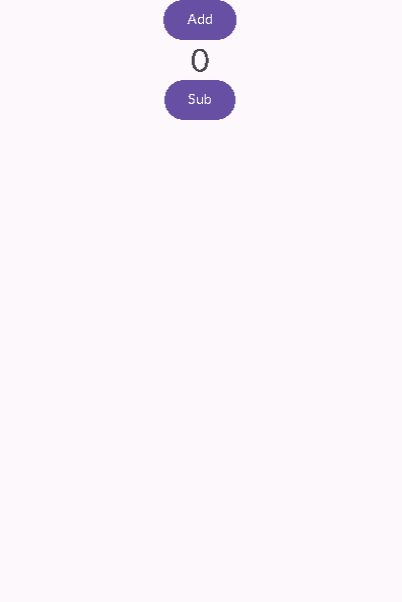
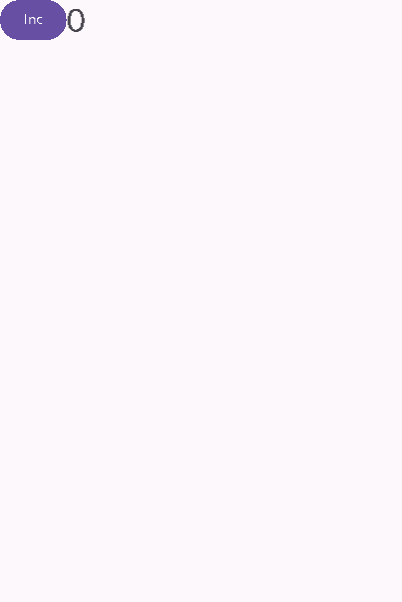
docs(ribir): ✏ update readme

Changed region(s): [[0.3881, 0.0, 0.597, 0.2093], [0.0, 0.0, 0.209, 0.0897]]

diff --git a/examples/counter/src/counter.rs b/examples/counter/src/counter.rs
@@ -3,19 +3,12 @@ use ribir::prelude::*;
 pub fn counter() -> impl WidgetBuilder {
   fn_widget! {
     let cnt = Stateful::new(0);
-
-    @Column {
-      h_align: HAlign::Center,
-      align_items: Align::Center,
+    @Row {
       @FilledButton {
-        on_tap: move |_: &mut _| *$cnt.write() += 1,
-        @{ Label::new("Add") }
+        on_tap: move |_| *$cnt.write() += 1,
+        @{ Label::new("Inc") }
       }
-      @H1 { text: pipe!($cnt.to_string())  }
-      @FilledButton {
-        on_tap: move |_: &mut _| *$cnt.write() += -1,
-        @{ Label::new("Sub") }
-      }
+      @H1 { text: pipe!($cnt.to_string()) }
     }
   }
 }

diff --git a/README.md b/README.md
@@ -1,65 +1,86 @@
+<h1 align="center">
+Ribir - Non-intrusive Declarative GUI Framework
+</h1>
+<p align="center"><a href="https://ribir.org" target="_blank" rel="noopener noreferrer">
+<img src="website/static/img/logo.svg" alt="Ribir-logo"  width = "128px">
+</a></p>
+
+<p align="center">
+Use Rust to build multi-platform applications from a single codebase.
+</p>
 <div align="center">
-<img src="website/static/img/logo-animation.gif" width="480px" />
-
-<!-- # Ribir -->
-
-Ribir is a framework for building modern native/wasm cross-platform user interface applications.
 
 [![CI](https://github.com/RibirX/Ribir/actions/workflows/ci.yml/badge.svg?branch=master)](https://github.com/RibirX/Ribir/actions/workflows/ci.yml)
 [![codecov](https://codecov.io/gh/RibirX/Ribir/branch/master/graph/badge.svg)](https://codecov.io/gh/RibirX/ribir)
-[![License](https://img.shields.io/badge/license-MIT-informational)](https://github.com/RibirX/ribir/blob/master/LICENSE)
+[![Crates.io](https://img.shields.io/crates/v/ribir)](https://crates.io/crates/ribir)
+[![Crates.io](https://img.shields.io/crates/d/ribir)](https://crates.io/crates/ribir)
 
-[Documents] | [Examples]
+[Website] | [Documents] | [Examples] | [Changelog]
 
+<!--todo: a demos picture here-->
 </div>
 
+## What's Ribir?
 
-## Principles
+Ribir is a Rust GUI framework that helps you build beautiful and native multi-platform applications from a single codebase.
 
-- **Non-injection and Non-invasive**: Ribir interacts with the APIs of your data structure, and does not require you to do any pre-design for the user interface. Developers can focus on designing the data struct, logic and APIs. Ribir will neither break your existing logic nor require injecting any of its own objects.
-
-- **Declarative**: The user interface is the description of data, the description will automatically react to the data modification. Once you describe your data, the description will keep describing your data.
-
-- **Purely composed**: Ribir creates UI via widgets. There is not a base-object, even if the built-in fields are provided in a composed way. For example,  only if you use `margin` field, the `Margin` widget will be composed, if you do not use it, you don't pay any overhead for `Margin`. "Only pay for what you need" is an important guideline for Ribir.
-
+Experience a novel approach to UI development that's directly based on your data structure APIs. Any data mutation will trigger a precise UI update. Your focus should be on designing your data structure and its APIs. Then, you can describe your data's UI without intruding on its logic.
 
 ## At First Glance
 
+A simple example of a counter:
 
-<div style="display:inline-block;">
-<div style="float:left;height:400px;overflow:scroll; ">
+
+<table>
+  <tr>
+    <td style="padding:10px">
+      <div>
 
 ``` rust
 use ribir::prelude::*;
 fn main() {
-  app::run(widget! {
-    states { cnt: Stateful::new(0) }
-    Column {
-      h_align: HAlign::Center,
-      align_items: Align::Center,
-      FilledButton { on_tap: move |_| *cnt += 1, Label::new("Add") }
-      H1 { text: cnt.to_string() }
-      FilledButton { on_tap: move |_| *cnt += -1, Label::new("Sub") }
+  let counter = fn_widget! {
+    let cnt = Stateful::new(0);
+    @Row {
+      @FilledButton {
+        on_tap: move |_| *$cnt.write() += 1,
+        @{ Label::new("Inc") }
+      }
+      @H1 { text: pipe!($cnt.to_string()) }
     }
-  });
+  };
+  App::run(counter);
 }
 ```
 </div>
-<img src="website/static/img/counter_demo.gif" width="300" style="float:right;"/>
-</div>
+    </td>
+      <td style="padding:10px">
+        <img src="website/static/img/counter_demo.gif" width="430"/>
+      </td>
+    </tr>
+</table>
+
+
 
 More [Examples]
 
 
-## Key Features
+## Features
 
-- **Write once run anywhere**: Compile native code for desktop and mobile(not yet), and WASM for Web(not yet). Since Ribir has rather few platform dependencies, it's not hard to support more platforms by yourself.
-- **Declarative language expanded from Rust syntax**: The declarative language is based on Rust, so interaction with Rust becomes natural and easy.
-- **Easy custom widget**: Ribir supports the implementation of custom `Compose`, `Render` and `ComposeChild` widgets, you only need to implement the corresponding traits. Evenmore, you are able to specify the template of the children of `ComposeChild`, just by deriving the `Template` traits.
-- **Powerful custom theme**: Specify the theme for the whole application or partial subtree. In the theme, you can configure the palette, icons, animate transitions, widget custom themes, the interactive behavior of widget and even compose more decoration widgets on it.
-- **Rich available official widgets**: A `ribir_widgets` library exists，containing common desktop and mobile widgets.
-- **No side effect animations**: Animation in Ribir is only a visual effect, that won't affect data. Animate support for any render widgets.
-- **Alternative rendering backends**: The rendering backend is replaceable, you can implement your own rendering to output image, html, svg or any other stuff. Ribir provides developers with a gpu backend basing on [wgpu] and perhaps a soft(cpu) render in the future.
+- **Declarative language** does not introduce a fully new language but rather provides a set of Rust macros for easy interaction.
+- **Widgets compose system** has four kinds of widgets to support you can implement your widget in different ways:
+  - function widget and `Compose`, from other widgets composition.
+  - `Render`, implement your layout and paint anything you want.
+  - `ComposeChild`, control the compose logic between parent and child widgets and specify the template of child widgets.  
+- **Non-intrusive state** converts your data to a listenable state and updates the view according to the change of the state.
+- **Layout system** learning and inspired by [Flutter] Sublinear layout, but not the same.
+- **Event system** is a composition event system, that supports event bubbling and capture. Allow to compose with any widget, and exists only if you use it.
+- **Theme system** supports full and inherit/partial themes, so you can use it to override or dynamically switch the theme of the subtree. Include palette, icons, animate transitions, the decoration widget of the widget, etc. In a very rough state and the API will be redesigned soon.
+- **Animations** based on the state but no side effect, it's almost stable in concept, but not many predefined animations yet.
+- **Painter** converts the view to 2D paths.
+- **GPU render** is a backend of the **Painter**, do path tessellation so that you can easily render the triangles in any GPU render engine. A [wgpu] implementation is provided as the default GPU render engine. Tessellation base on [lyon].
+- **Text** support basic text typography and IME input, in a usable but rough stage.
+- **Widgets** library provides 20+ basic widgets, but all are in a rough stage, and the API is not stable yet.
 
 ## Support Platform 
 
@@ -71,6 +92,23 @@ More [Examples]
 |iOS|🚧 Not yet|
 |Android|🚧 Not yet|
 |Web|🚧 Not yet|
+
+## Love Ribir?
+
+If you like Ribir, give our repo a [⭐ STAR ⬆](https://github.com/RibirX/Ribir) and [WATCH 👀](https://github.com/RibirX/Ribir/subscription) our repository to stay updated with the latest developments!
+
+Every encouragement and feedback can support us to go further.
+
+## Known Issues
+
+
+The pipe/watch may easily introduce a cycle reference, which will cause a memory leak. We'll resolve this issue in v0.2.0.
+
+In most cases, the framework will be able to avoid cycle reference automatically. Documentation will be updated to explain how to avoid cycle reference in the rest cases, and we will provide an API to help developers resolve it.
+
+
+For a complete list of known issues, please see [Issues](https://github.com/RibirX/Ribir/issues).
+
 
 ## Contributing
 
@@ -99,13 +137,12 @@ Please [report all bugs](https://github.com/RibirX/Ribir/issues/new/choose)! We 
 
 ## Thanks
 
-This project exists thanks to all the people who contribute:
+This project exists thanks to all the people who contributed:
 
 <a href="https://github.com/RibirX/Ribir/graphs/contributors">
   <img src="https://contrib.rocks/image?repo=RibirX/Ribir" height="50px">
 </a>
 
-<br/>
 <br/>
 
 We also found inspiration from the following frameworks:
@@ -114,12 +151,12 @@ We also found inspiration from the following frameworks:
 * [QML]
 
 ## License
+Ribir is [MIT-licensed](./LICENSE)
 
-Ribir is [MIT licensed](./LICENSE)
-
+[Website]: https://ribir.org
+[Changelog]: ./CHANGELOG.md
 [Flutter]: https://flutter.dev/
 [QML]: https://doc.qt.io/qt-6/qtqml-index.html
 [Examples]: ./examples/
 [Documents]: https://ribir.org/docs/introduction
-[Wgpu]: https://github.com/gfx-rs/wgpu
-
+[wgpu]: https://github.com/gfx-rs/wgpu

diff --git a/docs/en/introduction.md b/docs/en/introduction.md
@@ -4,7 +4,7 @@
 
 ## What is Ribir?
 
-Ribir is an open source Rust framework for building beautiful UI, natively compiled, multi-platform applications from a single codebase.
+Ribir is an open-source Rust framework for building beautiful, native, multi-platform applications from a single codebase.
 
 Ribir uses a non-intrusive declarative programming model that allows you to develop and design user interfaces as an independent module.
 
@@ -23,7 +23,7 @@ Ribir only interacts with the API of your data and does not require any pre-desi
 - No additional states
 - No additional notification mechanisms 
 - No inheritance of any base classes
-- No any other pre-constraints. 
+- No other pre-constraints. 
 
 It doesn't break the logic and structure of your existing data or inject any additional objects. When developing the core part of an application, you can focus on designing the data, logic, and API of the application without thinking about the UI at all.
 
@@ -33,7 +33,7 @@ The UI directly operates data, and data modifications directly drive UI updates,
 
 Ribir can be used to develop desktop, mobile, web and server-side rendering applications. It generates efficient binary code or WASM programs without relying on any runtime environment. It outputs a very simple, platform-independent drawing result, allowing you to choose to be rendered entirely by the GPU or CPU. You can even easily implement your own rendering backend to expand to uncovered platforms.
 
-### Declarative syntax that is easy to interact with Rust
+### The Declarative syntax that is easy to interact with Rust
 
 Ribir provides a declarative syntax that is easy to interact with Rust. It is not a new language, but a set of Rust macros. Therefore, it can interact well with Rust, making your code both a clear view description and a powerful logical expression, without any environment and tool dependencies.
 
@@ -64,9 +64,9 @@ fn_widget!{
 };
 ```
 
-The above example shows the way of combining built-in widgets. Even if `Text` does not have a `margin` field, you can still use the `Margin::margin` and compose it with `Text` to form a new widget. `Margin` will only be created when a widget uses the `margin` field, otherwise there will be no overhead.
+The above example shows the way of combining built-in widgets. Even if `Text` does not have a `margin` field, you can still use the `Margin::margin` and compose it with `Text` to form a new widget. `Margin` will only be created when a widget uses the `margin` field, otherwise, there will be no overhead.
 
-**Digestion of composite widget**: When describing the view of the data, in addition to some basic widgets, most widgets are composed of other widgets. For example, a `Button`, it is composed of `Text`, `Icon` or `BoxDecoration`, etc. widgets, `Button` itself is not a view element, we call this type of widget a composite widget. Composite widgets will be digested during view construction. They are like a function and are called once during view construction to build the final view and create the corresponding update logic, and do not exist in the final view.
+**Digestion of composite widgets**: When describing the view of the data, in addition to some basic widgets, most widgets are composed of other widgets. For example, a `Button` is composed of `Text`, `Icon` or `BoxDecoration`, etc. The `Button` itself is not a view element, we call this type of widget a composite widget. Composite widgets will be digested during view construction. They are like a function and are called once during view construction to build the final view and create the corresponding update logic, and do not exist in the final view.
 
 **Only state with write sources are real state**: Unlike other declarative frameworks that add fields to widgets to control widget updates. Ribir is non-intrusive. Ribir treats the entire widget as a state to control updates. 
 At the same time, it provides the ability to split the state, so that the local view can directly depend on the modification of part of the data to update (introduced in detail in the subsequent tutorial). Another big difference is that stateful and stateless can be converted to each other. If a state has no write source, it will degenerate into stateless， because no one will update it. For example:
@@ -83,18 +83,18 @@ fn_widget!{
 };
 ```
 
-In the above example, we declared a `Text` and used the `pipe!` macro to directly associate the visibility of `Text` with `show_hi`. But this association will be eliminated when the view is constructed, because `show_hi` always remains unchanged - it has no write source. Therefore, Ribir constructs a simple static view.
+In the above example, we declared a `Text` and used the `pipe!` macro to directly associate the visibility of `Text` with `show_hi`. But this association will be removed when the view is constructed because `show_hi` has no written source. Therefore, Ribir constructs a simple static view.
 
 ### Reliability
 
-Unlike general GUI frameworks that use inheritance and do not have any type constraints except base class inheritance, Ribir builds views based on widget composition and relies on the types between parent and child widgets to constrain whether and how to compose them. You can standardize your own child types, so many errors can be reported at compile time instead of being checked at runtime.
+Unlike general GUI frameworks that use inheritance and do not have any type constraints except base class inheritance, Ribir builds views based on widget composition and relies on the types between parent and child widgets to constrain whether and how to compose them. You can standardize your child types, so many errors can be reported at compile time instead of being checked at runtime.
 
 
 ## What is the current status of Ribir?
 
 ### Stability
 
-The core framework of Ribir is in a basically stable state, and the API and syntax will be iterated with a cautious attitude. Although the widget library already has many available widgets, it is still in a very rough state, and each version will have major changes.
+The core framework of Ribir is in a stable state, and the API and syntax will be iterated with a cautious attitude. Although the widget library already has many available widgets, it is still in a very rough state, and each version will have major changes.
 
 ### Platform coverage
 
@@ -108,4 +108,4 @@ In all important designs of the entire framework, performance is an important fa
 
 **Polestar Chat**: 
 
-**Sisyphus**: An editor for editing interactive documents, this is a long-term project, which is still in the early design and development stage, and it is the idea of this project that led to the birth of Ribir.
+**Sisyphus**: An editor for editing interactive documents, this is a long-term project, that is still in the early design and development stage, and it is the idea of this project that led to the birth of Ribir.

diff --git a/CHANGELOG.md b/CHANGELOG.md
@@ -10,7 +10,7 @@ There are 5 types of changes:
 - `Changed` for changes in existing functionality.
 - `Fixed` for any bug fixes.
 - `Documented` for any changes to the documentation.
-- `Breaking` for the detail of any backwards incompatible changes.
+- `Breaking` for the detail of any backward incompatible changes.
 
 And please only add new entries below the [Unreleased](#unreleased---releasedate) header with the following format:
 
@@ -33,39 +33,26 @@ We use it in our own projects and have a good experience, and we hope you can al
 ### Features
 
 - **core**: control the process of the entire view: compose, build, update, layout and render.
-
 - **declarative language**: not a new language, but a set of Rust macros that easily interact with Rust.
-
 - **widgets compose system**: has four kinds of widgets to support you can implement your own widget in different ways:
-: function widget, `Compose`, `Render` and `ComposeChild`. So that
   - function widget and `Compose`, from other widgets composition.
-  - `Render`, implement your own layout or rendering logic
-  - `ComposeChild`, control the compose logic between parent and child widgets, and specify the template of child widgets.  
-
+  - `Render`, implement your layout and paint anything you want.
+  - `ComposeChild`, control the compose logic between parent and child widgets and specify the template of child widgets.  
 - **non-intrusive state**: convert your data to a listenable state, and update the view according to the change of the state.
-
-- **layout system**: learning and inspired by [Flutter] Sublinear layout, but not exactly the same.
-
-- **event system**: a compose event system, support event bubbling and capture. Support compose to any widget, and exist only if you use it.
-
-- **theme System**: support full and inherit/partial theme, so you can use it to override or dynamically switch the theme of the subtree. Include: palette, icons, animate transitions, the decoration widget of the widget, etc. In a very rough state and the API will be redesigned soon.
-
-- **animations**: base on state but no side effect animation, it's almost stable in concept, but not many predefined animations yet.
-
-- **painter**： convert view to 2d path.
-
-- **gpu render**: gpu backend for **painter**, do path tessellation, so that easy to render the triangles in any gpu render engine. A `wgpu` implementation is provided as the default gpu render engine. Tessellation base on [lyon].
-
-- **Text**: support basic text typography and ime input, in a usable but rough stage.
-
-- **widgets**: widgets library provide 20+ basic widgets, but all in a rough stage, and the API not stable yet.
-
+- **layout system**: learning and inspired by [Flutter] Sublinear layout, but not the same.
+- **event system**: a composition event system, that supports event bubbling and capture. Allow to compose with any widget, and exists only if you use it.
+- **theme System**: support full and inherit/partial theme, so you can use it to override or dynamically switch the theme of the subtree. Include palette, icons, animate transitions, the decoration widget of the widget, etc. In a very rough state and the API will be redesigned soon.
+- **animations**: based on state but no side effect animation, it's almost stable in concept, but not many predefined animations yet.
+- **painter**： convert the view to the 2D path.
+- **GPU render**: GPU backend for the **painter**, do path tessellation, so that easy to render the triangles in any GPU render engine. A `wgpu` implementation is provided as the default GPU render engine. Tessellation base on [lyon].
+- **text**: support basic text typography and IME input, in a usable but rough stage.
+- **widgets**: the widgets library provides 20+ basic widgets, but all are in a rough stage, and the API is not stable yet.
 - **examples**: counter, storybook, messages, todos, wordle_game, etc.
 
 ### Documented
 
 - **introduction**: add `introduction.md` to introduce Ribir and why choose it.
-- **get started**: add the `get_started` series of tutorials to help user get started with Ribir.
+- **get started**: add the `get_started` series of tutorials to help users get started with Ribir.
 
 
 [Flutter]: https://flutter.dev/

diff --git a/examples/README.md b/examples/README.md
@@ -1,11 +1,9 @@
 # Ribir Examples
 
-All the examples in this folder use the macro `example_framework!` to startup, the examples will generate tests and benchmarks for the example to ensure every modification work for those examples.
+All the examples in this folder use the macro `example_framework!` to generate tests, benchmarks and main function for the example.
 
-Run examples:
+To run the examples, you can use the following commands:
 
 ``` sh
-cargo run -p storybook --features="wgpu"
+cargo run -p storybook
 ```
-
-Remember add `--features="wgpu"` to use `wgpu` painter-backend to render, we not enable it as default.
